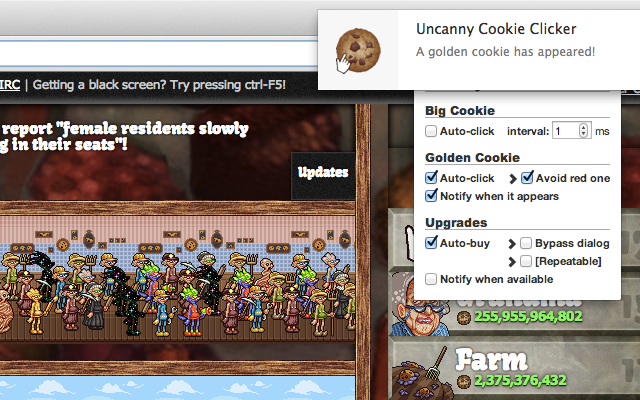
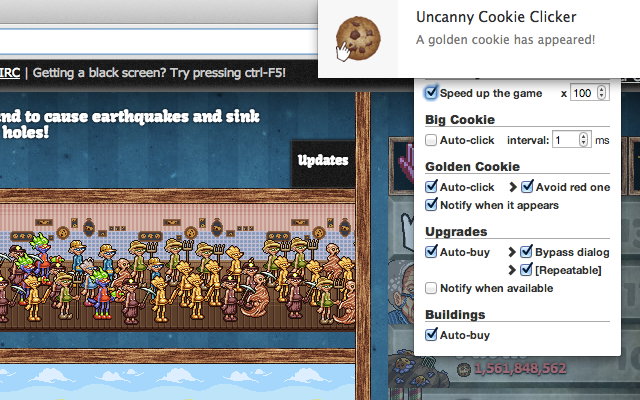
Updated manifest, readme, and screenshots

diff --git a/README.md b/README.md
@@ -6,8 +6,9 @@
 - Auto-click the big cookie at given interval
 - Auto-click a golden cookie when it appears (avoiding red cookies if you want)
 - Notify you when a golden cookie appears
-- Auto-buy upgrades
+- Auto-buy upgrades and buildings
 - Notify you when upgrades become available
+- Speed up the game
 
 This extension also works on the [beta version of Cookie Clicker][].
 
